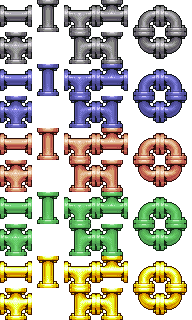
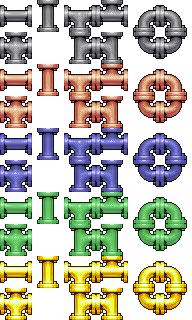
implemented tube colors

Changed region(s): [[0.0, 0.1875, 1.0, 0.625], [0.1875, 0.1875, 0.3125, 0.3125]]

diff --git a/js/tiles.js b/js/tiles.js
@@ -449,6 +449,11 @@ class tile{
 		return r;
 	}
 	
+	setTubeColor(tubecolor = tubeColors.grey){
+		// sets the tube color if the tile entity is a tube type
+		if(this.entityType != entities.tube) return;
+		this.tileVariant = tubecolor;
+	}
 	place(pos = null){
 		if(pos) this.gridPos = pos;
 		tile.setTileAt(this, this.gridPos);
@@ -493,6 +498,14 @@ class tile{
 			this.drawTintAtScreenPos(pos);
 		
 		var sprite = this.getSprite();
+		
+		if(this.entityType == entities.tube){
+			var sp = sprite.clone();
+			var spriteYOff = Math.floor(this.tileVariant * tile.tilesize * 2);
+			sp.sprite.pos.y += spriteYOff;
+			sprite = sp;
+		}
+		
 		if(!sprite) return;
 		sprite.bounds.pos = pos;
 		if(rotation) sprite.rotation = rotation;
@@ -774,7 +787,7 @@ class tileform{
 		// sets the tubecolor of this tileform and all the tiles within it
 		this.tubeColor = tubecolor;
 		this.tiles.forEach(function(tileOb){
-			tileOb.tileVariant = tubecolor;
+			tileOb.setTubeColor(tubecolor);
 		});
 	}
 	translate(translation, forced = false){
